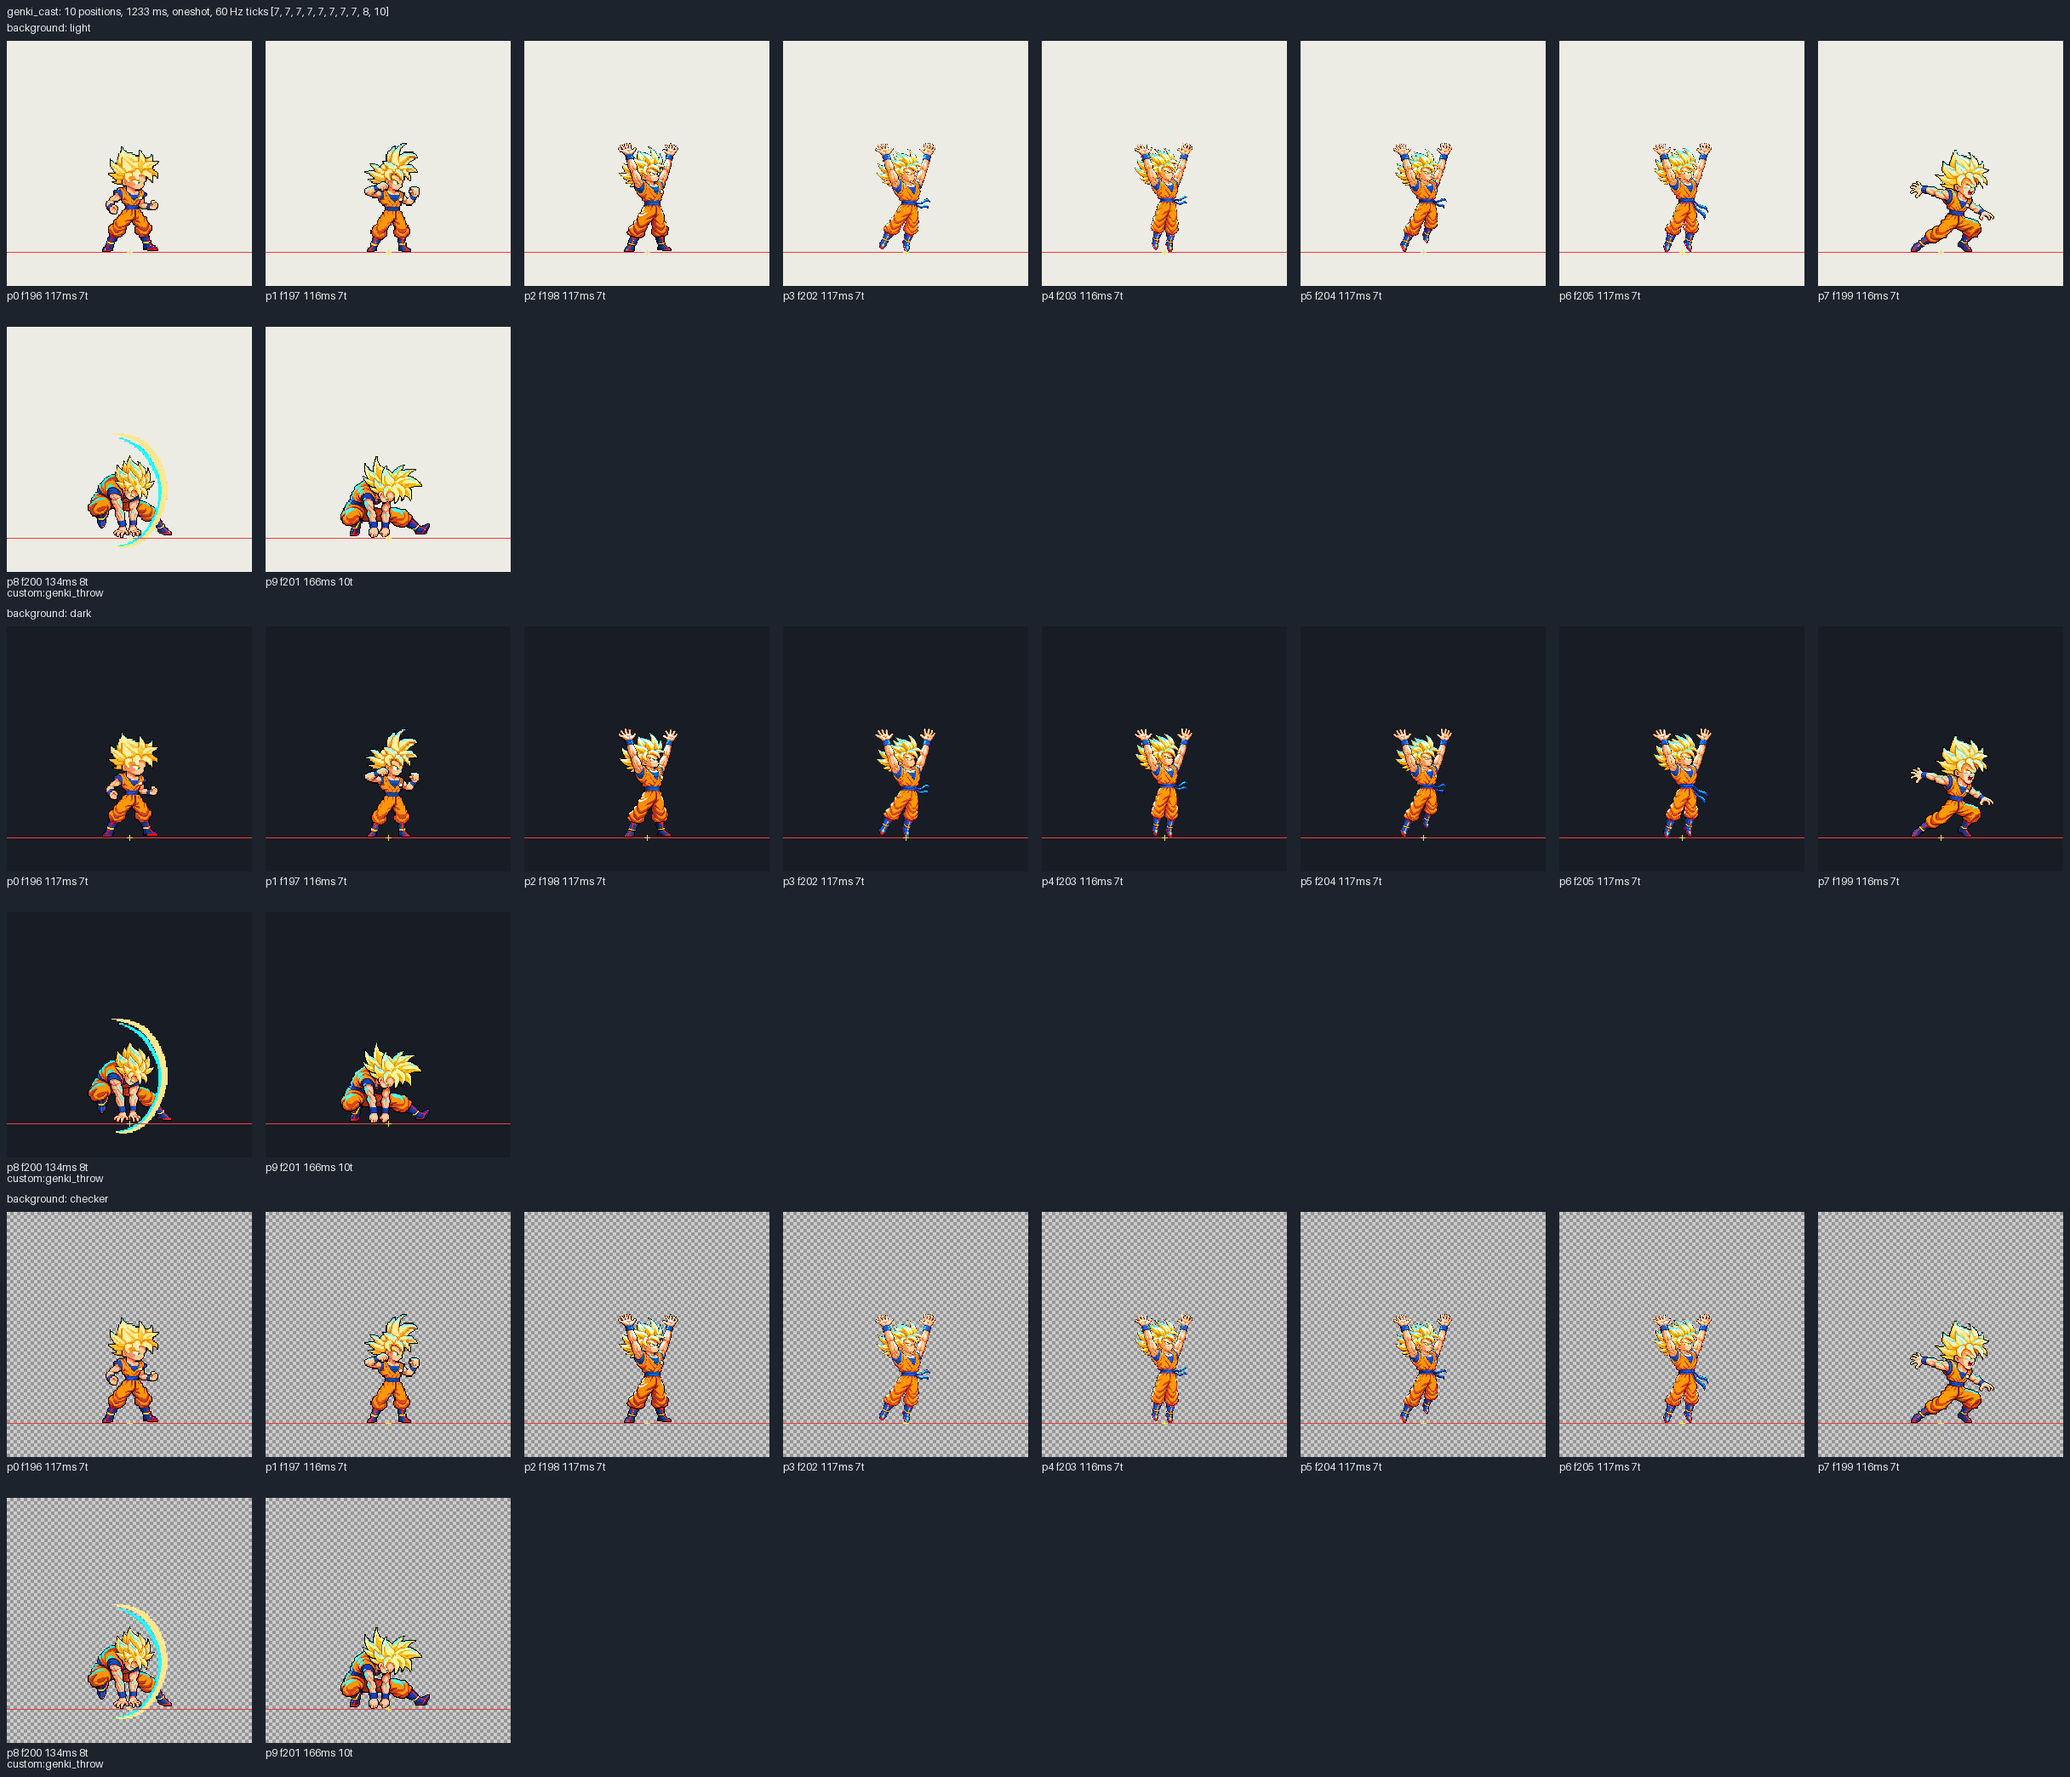
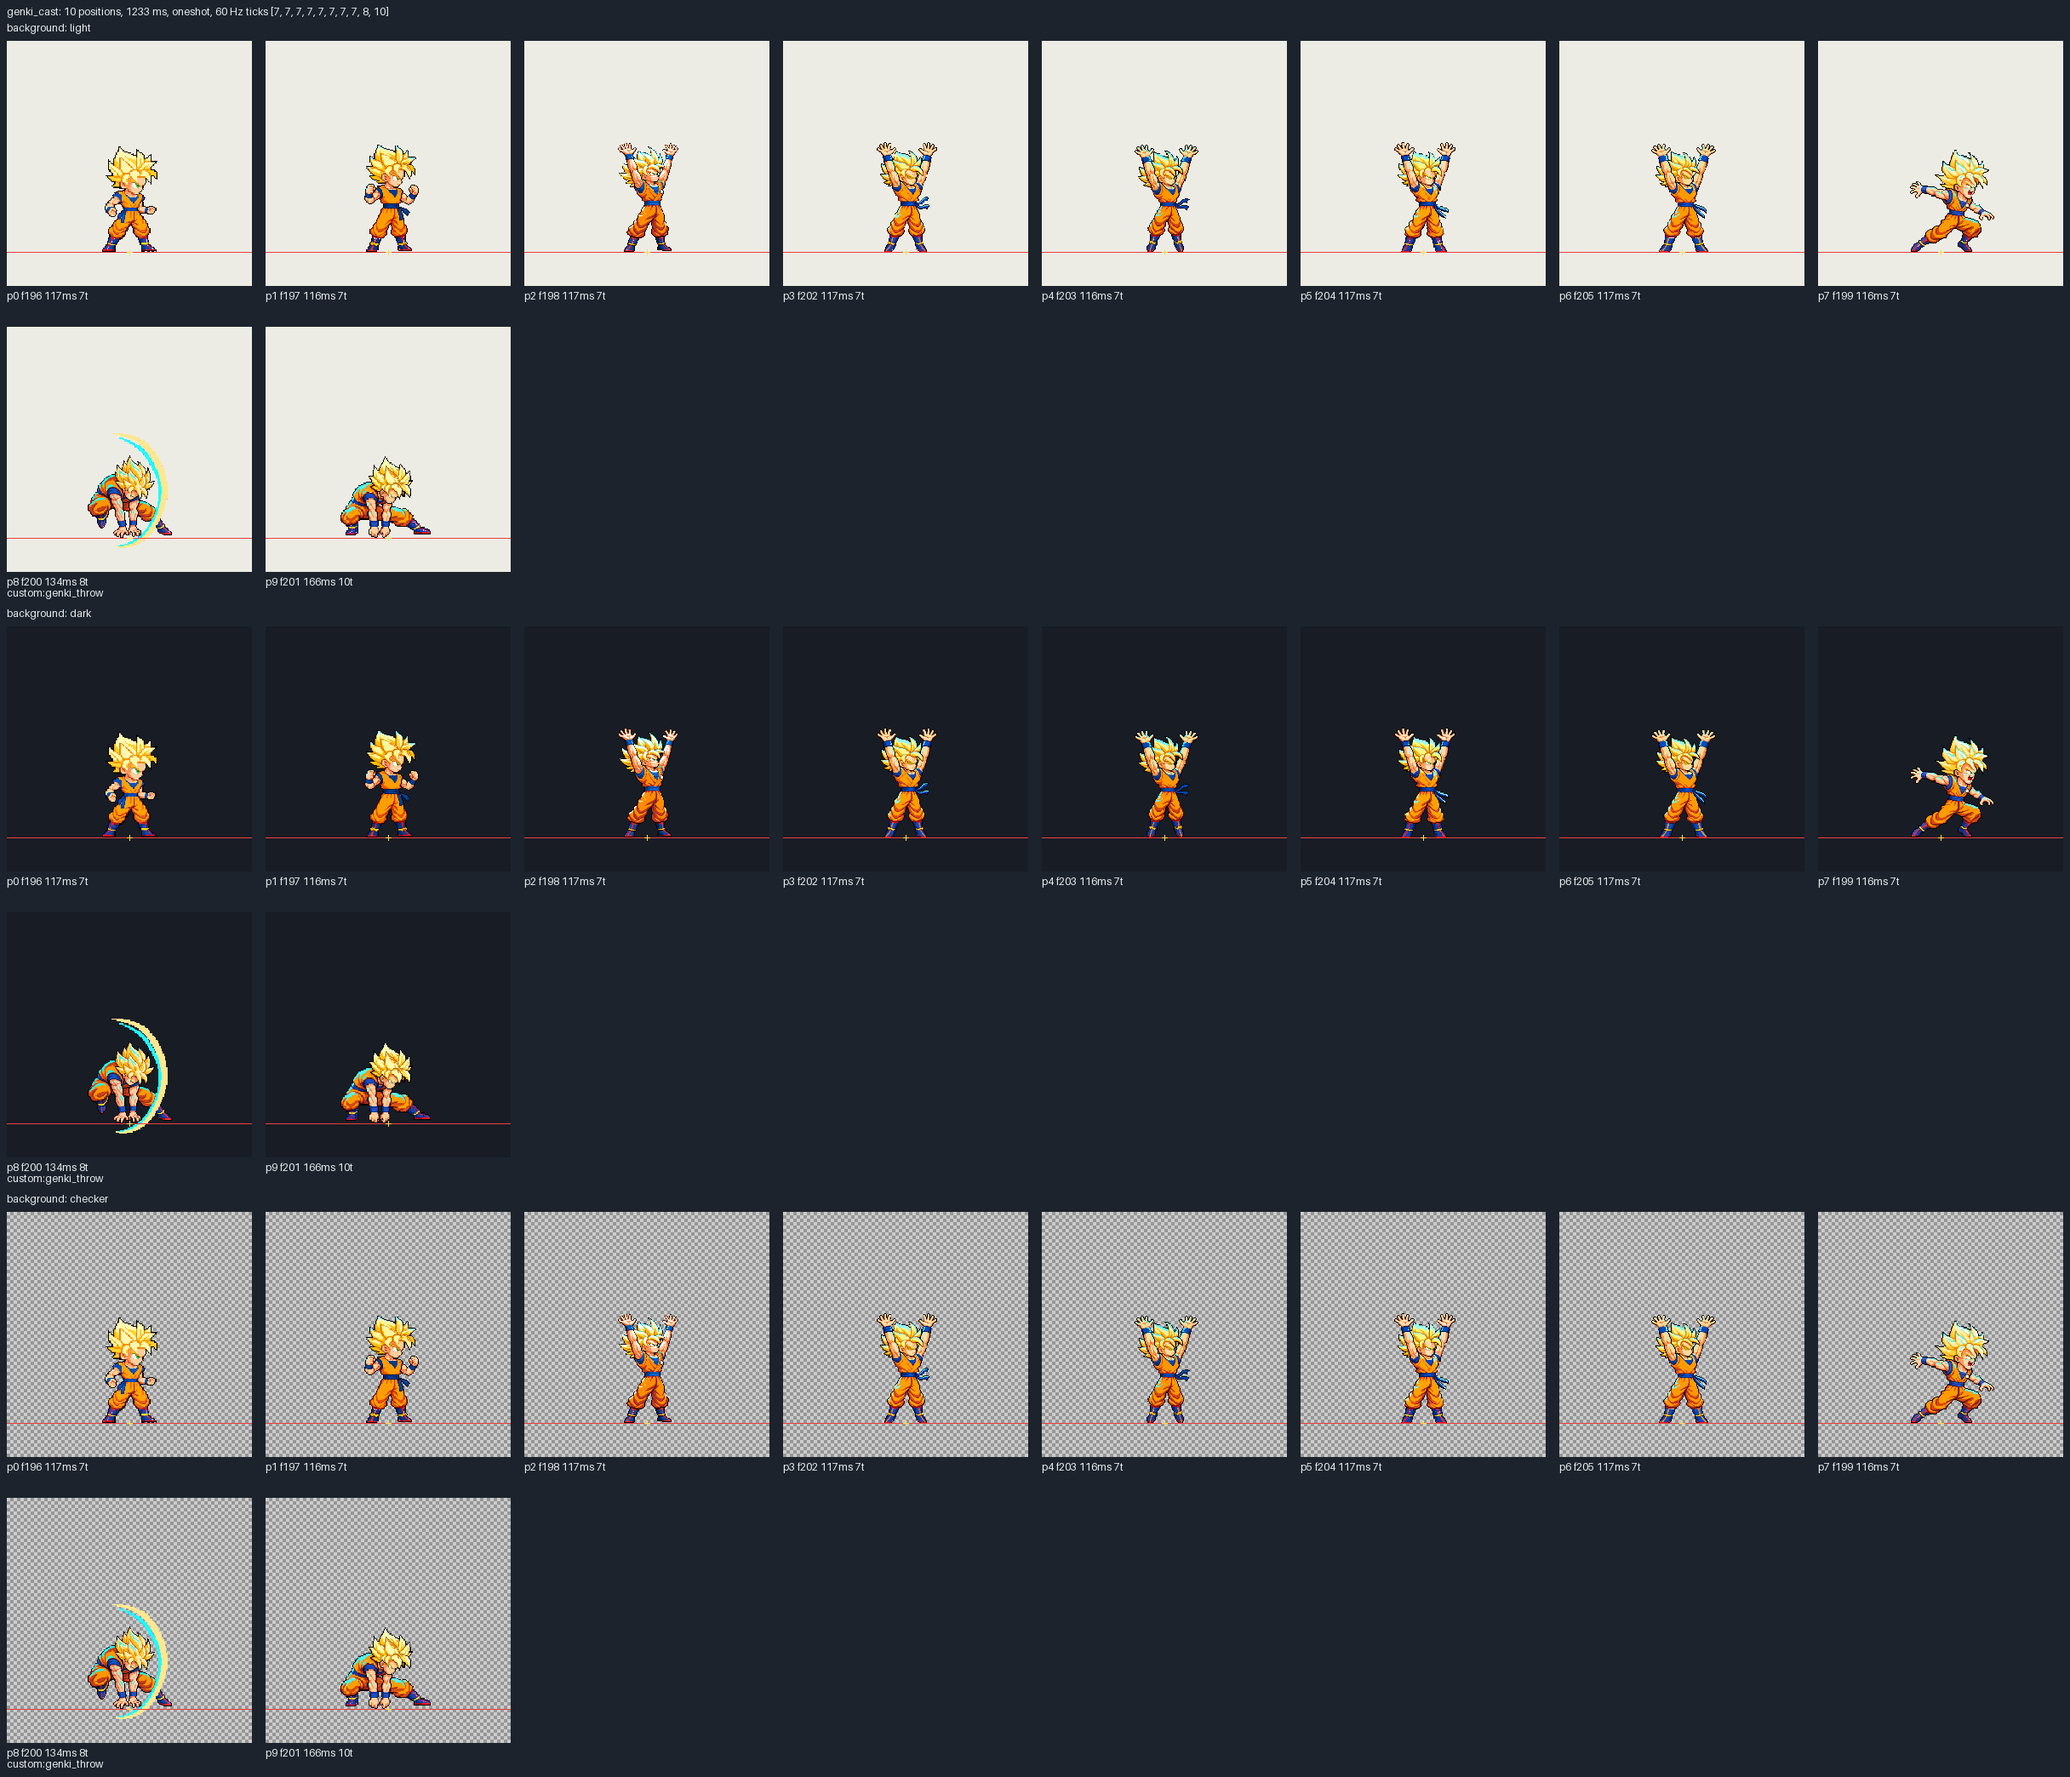
Polish round 4: fix Goku genki_cast #0 face, #1/#9 hair (idle_combat) & subtle 5px hover leg sway

diff --git a/tools/pipeline/build_songoku_genki_clip.py b/tools/pipeline/build_songoku_genki_clip.py
@@ -33,8 +33,9 @@ STATE_PATH = ROOT / "state.json"
 
 WORK_GENKI = ROOT / "work" / "characters" / "songoku_genki"
 GEN_DIR = WORK_GENKI / "gen_v2"
-HOLD_GEN_DIR = ROOT / "work" / "polish_round3" / "gen"
-QA_DIR = ROOT / "work" / "polish_round3" / "qa"
+R4_GEN_DIR = ROOT / "work" / "polish_round4" / "gen"
+HOLD_GEN_DIR = R4_GEN_DIR
+QA_DIR = ROOT / "work" / "polish_round4" / "qa"
 BACKUP_DIR = ROOT / "docs" / "releases" / "archive"
 BACKUP_ATLAS = BACKUP_DIR / "songoku-v0.18.0-atlas-00.png"
 
@@ -76,13 +77,13 @@ def clean_spurious_white_chest_badge(arr: np.ndarray) -> np.ndarray:
     g = out[:, :, 1].astype(np.int16)
     b = out[:, :, 2].astype(np.int16)
     a = out[:, :, 3] > 0
-    # Torso chest ROI (38%..62% height, 32%..68% width)
+    # Torso chest ROI (35%..65% height, 30%..76% width — catches right-chest kanji badge cleanly too!)
     roi = np.zeros((h, w), dtype=bool)
-    roi[int(h * 0.38):int(h * 0.62), int(w * 0.32):int(w * 0.68)] = True
-    # Pure white/pale neutral spot completely surrounded by gi/undershirt
-    white_spot = a & roi & (r > 215) & (g > 215) & (b > 210)
+    roi[int(h * 0.35):int(h * 0.65), int(w * 0.30):int(w * 0.76)] = True
+    # Pure white/pale neutral spot inside orange gi / dark outline
+    white_spot = a & roi & (r > 205) & (g > 205) & (b > 200)
     lbl, n = ndimage.label(white_spot, structure=np.ones((3, 3), dtype=np.int32))
-    gi_orange = a & (r > 180) & (g >= 70) & (g <= 160) & (b < 65) & ((r - g) > 40)
+    gi_orange = a & (r > 175) & (g >= 65) & (g <= 165) & (b < 70) & ((r - g) > 35)
     gi_blue = a & (b > 90) & (r < 95) & (g < 145)
     fill_col = np.array([232, 118, 24, 255], dtype=np.uint8)
     if gi_orange.sum() > 20:
@@ -95,13 +96,15 @@ def clean_spurious_white_chest_badge(arr: np.ndarray) -> np.ndarray:
     for ci in range(1, n + 1):
         comp = lbl == ci
         sz = int(comp.sum())
-        if 8 <= sz <= int(h * w * 0.015):
-            # Include 1px dark ring around the badge if surrounded by orange gi or undershirt blue
-            dil = ndimage.binary_dilation(comp, iterations=5) & ~comp
-            if (dil & (gi_orange | gi_blue)).sum() > sz * 0.45 and (dil & gi_orange).sum() > sz * 0.15:
+        if 4 <= sz <= int(h * w * 0.018):
+            # Include 1px dark ring around the badge if adjacent to orange gi
+            dil = ndimage.binary_dilation(comp, iterations=6) & ~comp
+            if (dil & gi_orange).sum() >= max(6, int(sz * 0.25)):
                 ring = ndimage.binary_dilation(comp, iterations=2) & ~comp
                 dark_ring = ring & (r < 95) & (g < 95) & (b < 95)
-                patch = comp | dark_ring
+                # Only replace interior dark ring pixels adjacent to orange gi (never eat outer sprite outline!)
+                inner_dark = dark_ring & ndimage.binary_dilation(gi_orange, iterations=3) & ~ndimage.binary_dilation(~a, iterations=1)
+                patch = comp | inner_dark
                 out[patch] = fill_col
     return out
 
@@ -294,8 +297,8 @@ def main() -> int:
     #    -> #3..#6 genki_hold_00..03 (4-frame overhead hair/gi/sash flutter loop @ 120ms for 5.0s charge!)
     #    -> #7 genki_03 (lunge wind-up) -> #8 genki_04 (downward hurl + arc) -> #9 genki_05 (crouched follow-through)
     specs = {
-        "genki_00":      {"body_h": 124, "use_hair_crown_h": False, "y1": 247, "cx": 144.0, "src": GEN_DIR / "genki_00" / "generated.png"},
-        "genki_01":      {"body_h": 128, "use_hair_crown_h": False, "y1": 247, "cx": 144.0, "src": GEN_DIR / "genki_01" / "generated.png"},
+        "genki_00":      {"body_h": 124, "use_hair_crown_h": False, "y1": 247, "cx": 144.0, "src": R4_GEN_DIR / "genki_00" / "generated.png"},
+        "genki_01":      {"body_h": 126, "use_hair_crown_h": False, "y1": 247, "cx": 144.0, "src": R4_GEN_DIR / "genki_01" / "generated.png"},
         "genki_02":      {"body_h": 124, "use_hair_crown_h": True,  "y1": 247, "cx": 144.0, "src": GEN_DIR / "genki_02" / "generated.png"},
         "genki_hold_00": {"body_h": 124, "use_hair_crown_h": True, "hover_torso_anchor": True, "crown_y": 123, "cx": 144.0, "src": HOLD_GEN_DIR / "genki_hold_00" / "generated.png"},
         "genki_hold_01": {"body_h": 124, "use_hair_crown_h": True, "hover_torso_anchor": True, "crown_y": 123, "cx": 144.0, "src": HOLD_GEN_DIR / "genki_hold_01" / "generated.png"},
@@ -303,11 +306,11 @@ def main() -> int:
         "genki_hold_03": {"body_h": 124, "use_hair_crown_h": True, "hover_torso_anchor": True, "crown_y": 123, "cx": 144.0, "src": HOLD_GEN_DIR / "genki_hold_03" / "generated.png"},
         "genki_03":      {"body_h": 120, "use_hair_crown_h": False, "y1": 247, "cx": 144.0, "src": GEN_DIR / "genki_03" / "generated.png"},
         "genki_04":      {"body_h": 92,  "use_body_comp_h": True,   "y1": 247, "cx": 144.0, "src": GEN_DIR / "genki_04" / "generated.png"},
-        "genki_05":      {"body_h": 96,  "use_hair_crown_h": False, "y1": 247, "cx": 144.0, "src": GEN_DIR / "genki_05" / "generated.png"},
+        "genki_05":      {"body_h": 96,  "use_hair_crown_h": False, "y1": 247, "cx": 144.0, "src": R4_GEN_DIR / "genki_05" / "generated.png"},
     }
 
-    bar_ref = Image.open(RAW_DIR / "bar_00.png").convert("RGBA")
-    strip_items: List[Tuple[str, Image.Image]] = [("REF bar_00", bar_ref)]
+    bar_ref = Image.open(RAW_DIR / "idle_combat_00.png").convert("RGBA")
+    strip_items: List[Tuple[str, Image.Image]] = [("REF idle_combat_00", bar_ref)]
     saved_paths: List[pathlib.Path] = []
     for fid, sp in specs.items():
         gen_p = sp["src"]
@@ -318,10 +321,11 @@ def main() -> int:
         saved_paths.append(dst)
         arr = np.array(im)
         ys, xs = np.where(arr[:, :, 3] > 0)
-        foot = arr[max(0, int(ys.max()) - 7):int(ys.max()) + 1, :, 3] > 0
+        foot = arr[max(0, int(ys.max()) - 10):int(ys.max()) + 1, :, 3] > 0
         fxs = np.where(foot)[1]
         smid = 0.5 * (int(fxs.min()) + int(fxs.max())) if len(fxs) else float(np.median(xs))
-        print(f"  [{fid}] bbox=({xs.min()},{ys.min()})..({xs.max()},{ys.max()}) w={xs.max()-xs.min()+1} h={ys.max()-ys.min()+1} stance_mid={smid:.1f} boot_y={ys.max()}")
+        fspan = int(fxs.max() - fxs.min() + 1) if len(fxs) else 0
+        print(f"  [{fid:14s}] bbox=({xs.min()},{ys.min()})..({xs.max()},{ys.max()}) w={xs.max()-xs.min()+1} h={ys.max()-ys.min()+1} stance_mid={smid:.1f} foot_span={fspan} boot_y={ys.max()}")
         strip_items.append((fid, im))
 
     # 3. Render 3-background QA filmstrip comparing side-by-side with canonical bar_00!

diff --git a/lerning.md b/lerning.md
@@ -1072,4 +1072,10 @@
   4. **Map 1-View K70E Solo PvP (`assets/maps/cell_arena/`)**: Khi test trên profile chuẩn Redmi K70E (`2712×1220` trong `device-profiles.json`), độ rộng logic chính xác là **`2400.79 × 1080`** (không phải `2460 × 1080` vốn tạo dư `59px` khiến camera vẫn cuộn `1200.4..1259.6`). Chuẩn hóa `cell_arena` về đúng **`2400 × 1080`** (`y_crop=20px`, giữ nguyên 100% ảnh gốc `0 AI redraw`) giúp camera K70E khóa cứng tuyệt đối tại tâm `x=1200.0` (`0.0 px` cuộn); ánh xạ chính xác đường line đỏ 6 điểm thành sàn rắn `TileMapLayer` + `StaticBody2D` `CollisionPolygon2D` + tường 2 biên + bám dốc mượt; tách sắc nét 2 cột kim loại tiền cảnh theo profile đối xứng Sobel RGB đặt lên lớp trên cùng **`z_index = 80`** (trên nhân vật `20` / boss `30` / FX `65..70`, **0 va chạm**); không có header chuyển map, thêm nút chuyển nhanh `🏟 Đấu Trường` ⇄ `🏔 Cao Nguyên` trên HUD Sân Tập (`monsters_enabled = false`, 0 quái khi vào để test solo PvP).
 - **Kiểm chứng**: Pass `76/76 verify_antamina_and_genki.gd`, full `./loop.sh test` (`exit 0`), xuất Web/APK đồng bộ 1:1 SHA-256 trên `localhost:8080` và đẩy CI/CD lên `main`.
 
+### [LRN-145] Chuẩn hóa mặt `#0`, kiểu tóc `#1`/`#9` của Son Goku `genki_cast` theo `idle_combat` & tinh chỉnh dao động chân lơ lửng nhẹ `~5px` phát triển từ `#2` (2026-11-26)
+- **Điểm Owner nghiệm thu & yêu cầu tinh chỉnh**: Tapion và Đấu Trường Cell đã hoàn thiện; riêng `genki_cast` của Son Goku có 4 điểm cần tinh chỉnh: (1) `#0` khuôn mặt chưa chuẩn `idle_combat`, (2) `#1` lệch kiểu tóc (tóc vuốt ngược cao), (3) `#9` (`genki_05`) lệch kiểu tóc (tóc chĩa kim xòe ngang), và (4) vòng lơ lửng `#3..#6` vung chân biên độ lớn (`~20px`) cần đổi thành dao động thu hẹp ↔ mở rộng chân rất nhẹ `~5px` phát triển mượt từ `#2`.
+- **Cách xử lý & Kiểm chứng**:
+  - Sử dụng trực tiếp `idle_combat_00`/`idle_combat_02` làm chuẩn khuôn mặt + vương miện tóc vàng gọn (`work/polish_round4/generate_goku_genki_r4.py`, dùng tên file trung tính khi gọi `codex-cli` để tránh từ chối sai thương hiệu), tái dựng sạch `genki_00` (#0), `genki_01` (#1), `genki_05` (#9) và 4 frame `genki_hold_00..03` (#3..#6) khóa đai xanh cố định bên hông phải, ánh xạ sáng xanh trên đầu và độ rộng mũi chân dao động nhẹ tinh tế phát triển ngay từ `#2` (`foot_span`: `56 (#2) → 50 (#3) → 44 (#4) → 54 (#5) → 58 (#6)`, mỗi chân thu hẹp/mở rộng ~3–6 px quanh tâm khóa cứng `stance_mid = 143.5..145.5 px`).
+  - Duyệt trực quan 3 nền cạnh `idle_combat_00` (`work/polish_round4/qa/qa_songoku_genki_body_3bg.png`), khóa `24/24` Base Goku SHA-256 Lock, đóng gói 1 trang `songoku-atlas-00.png` (`4090×4090`, `35` clips / `206` frames, `60Hz Nearest`, `sha256=fad40dd11f7d7dce...`), pass `76/76 verify_antamina_and_genki.gd` + full `./loop.sh test` (`exit 0`) + Web/APK export đồng bộ 1:1.
+
 <!-- LERNING_ENTRIES_END -->
